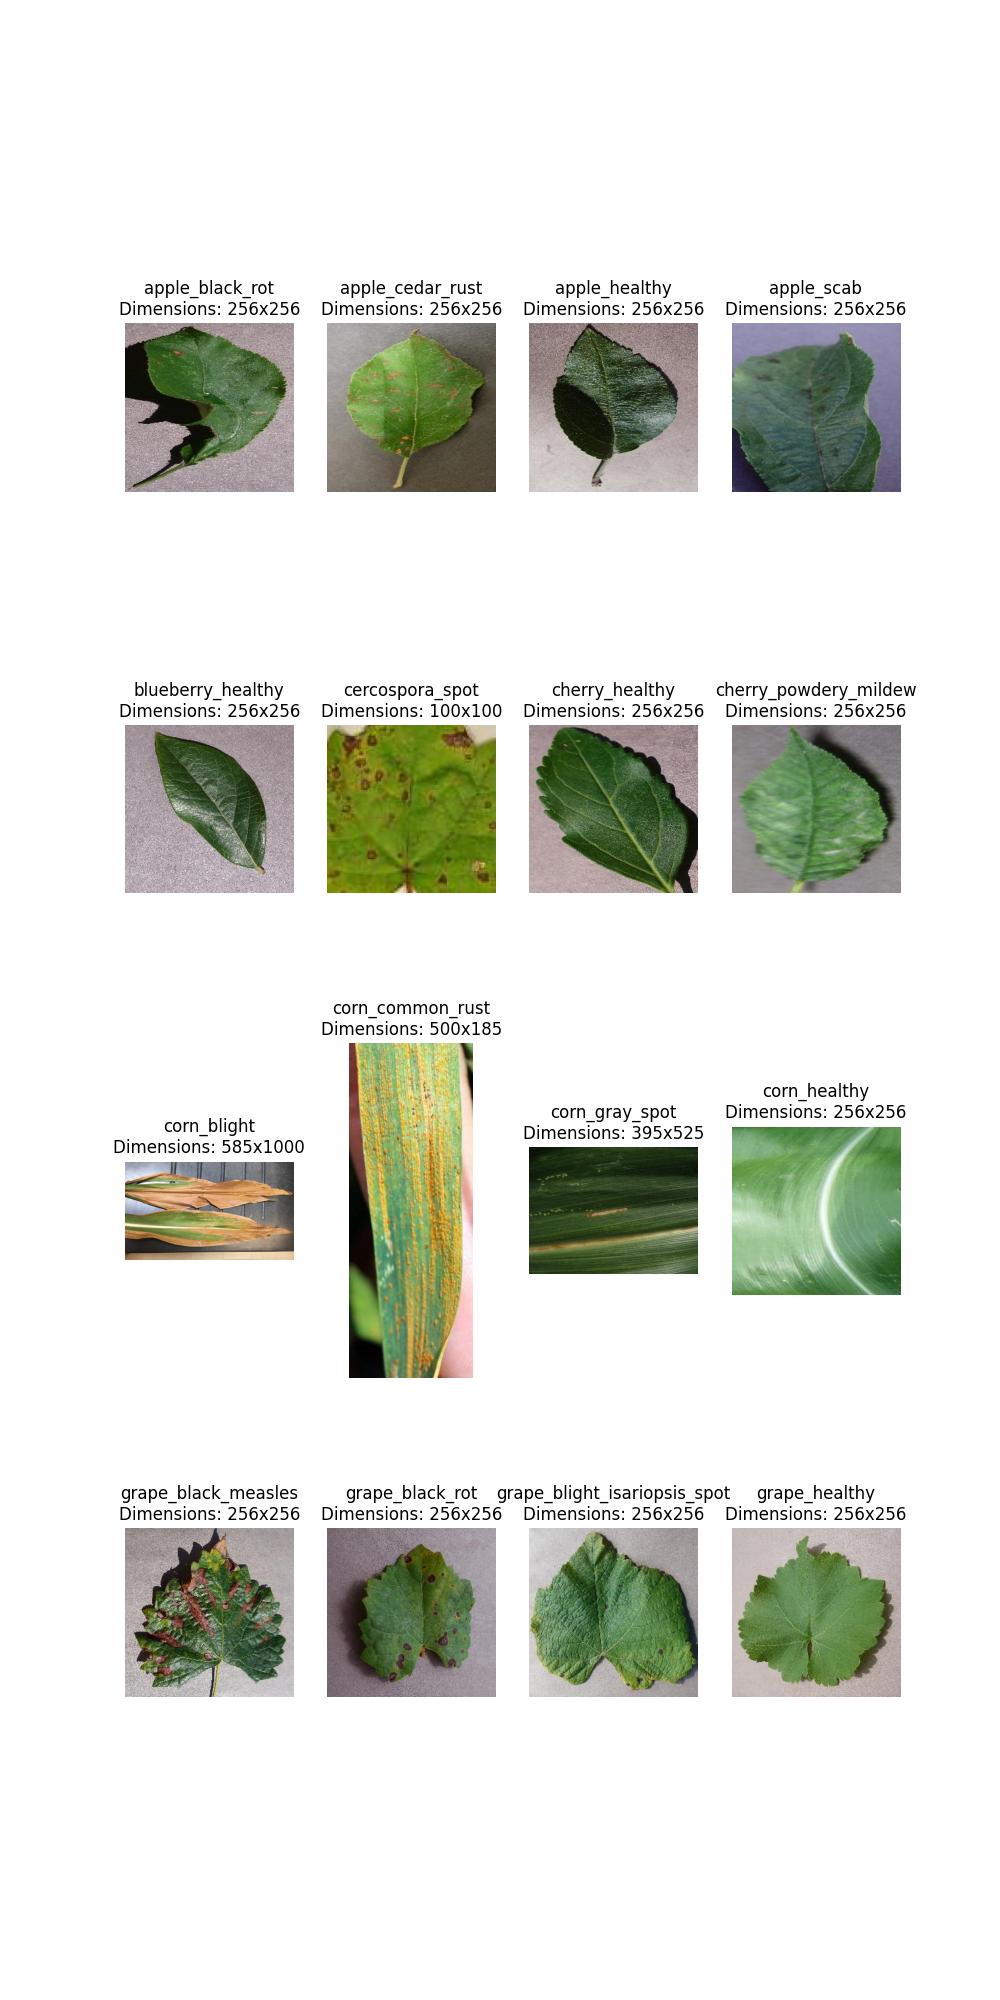
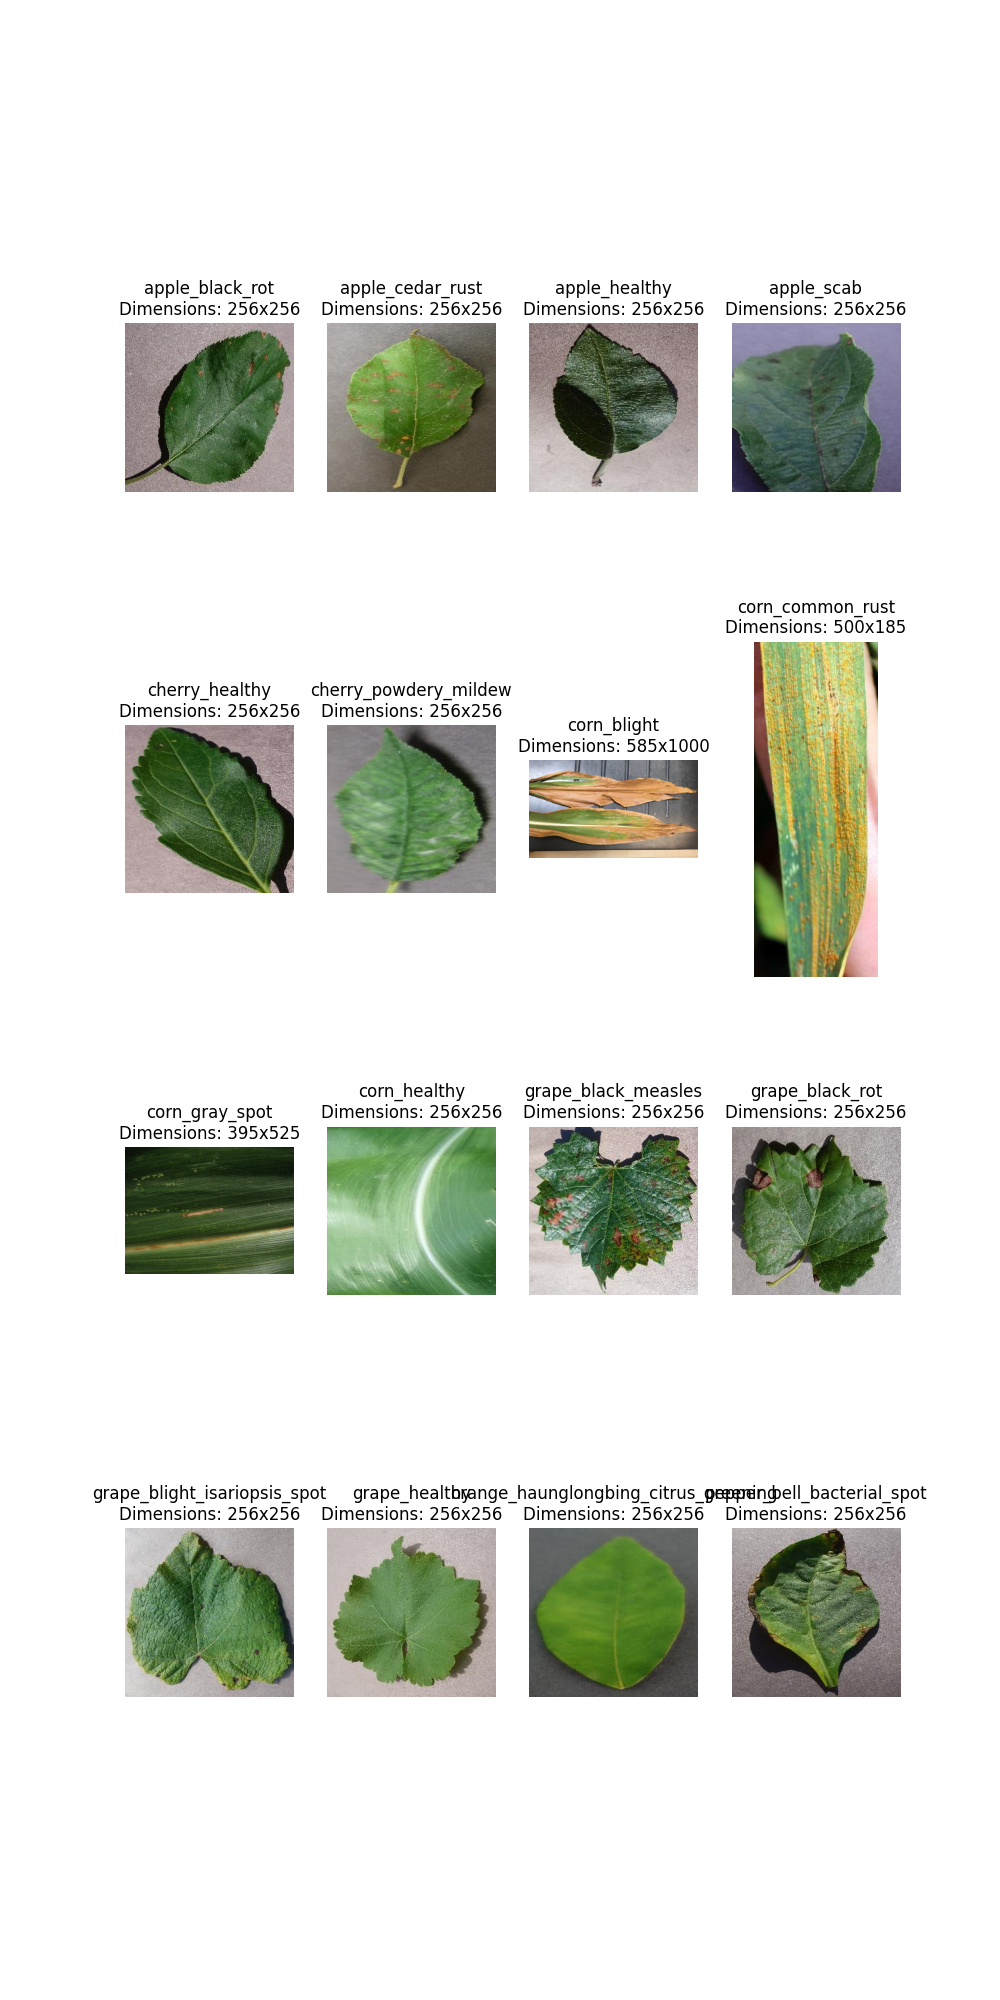
trimmed and cleaned the dataset

diff --git a/util.py b/util.py
@@ -1,9 +1,13 @@
 import os
 import re
-import numpy as np
 
-from typing import Tuple
+import cv2
+import numpy as np
+import random
+
+from typing import Tuple, List
 from PIL import Image
+from img_aug_transform import ImgAugGenerate
 
 
 def rename_subdir(root_dir: str) -> None:
@@ -82,3 +86,43 @@ def get_mean_std_of_pixel_values(root_dir: str) -> Tuple[np.ndarray, np.ndarray]
         raise ValueError("No images found in dataset")
 
     return mean_pixel_values, std_pixel_values
+
+
+def trim_num_images(root_path: str, classes_to_trim: List[str], trim_number: int) -> None:
+    """Randomly removes images from the dataset so no class has over n number of images
+
+    :param root_path: The root directory of the dataset
+    :param classes_to_trim: List of class names to trim
+    :param trim_number: Maximum number of images to retain per class
+    """
+
+    for class_dir_name in classes_to_trim:
+        class_dir = os.path.join(root_path, class_dir_name)
+        files_list = os.listdir(class_dir)
+
+        if len(files_list) > trim_number:
+            num_files_to_remove = len(files_list) - trim_number
+            files_to_remove = random.sample(files_list, num_files_to_remove)
+
+            for file_name in files_to_remove:
+                file_path = os.path.join(class_dir, file_name)
+                os.remove(file_path)
+
+
+def generate_aug_images(root_path: str, class_name: str, num_images: int) -> None:
+    image_dir = os.path.join(root_path, class_name)
+    image_files = os.listdir(image_dir)
+
+    augment = ImgAugGenerate()
+
+    for i in range(num_images):
+        random_image_file = random.choice(image_files)
+        image_path = os.path.join(image_dir, random_image_file)
+
+        image = cv2.imread(image_path)
+        augmented_image = augment(image)
+
+        image_name = f'{class_name}_augmented_{i+1}.jpg'
+        save_file_path = os.path.join(image_dir, image_name)
+        augmented_image = Image.fromarray(augmented_image)
+        augmented_image.save(save_file_path)

diff --git a/img_aug_transform.py b/img_aug_transform.py
@@ -4,6 +4,7 @@ from torchvision.transforms import functional as F
 import cv2
 from PIL import Image
 
+
 class CustomCLAHE(object):
     def __init__(self, clip_limit=2.0, tile_grid_size=(8, 8)):
         self.clip_limit = clip_limit
@@ -27,23 +28,17 @@ class CustomCLAHE(object):
         return Image.fromarray(equalized_bgr_image)
 
 
-class ImgAugTransform:
+class ImgAugGenerate:
     def __init__(self):
         """Initializes an object of ImgAugTransform class with a sequence of image augmentation operations"""
 
         # Boilerplate transformations
         self.aug = iaa.Sequential([
             iaa.Resize({'height': 224, 'width': 'keep-aspect-ratio'}),
-            iaa.Sometimes(0.25, iaa.GaussianBlur(sigma=(0, 3.0))),
+            iaa.Flipud(0.5),
             iaa.Fliplr(0.5),
             iaa.Affine(rotate=(-20, 20), mode='symmetric'),
-            iaa.Sometimes(0.25,
-                          iaa.OneOf([
-                              iaa.Dropout(p=(0, 0.1)),
-                              iaa.CoarseDropout(0.1, size_percent=0.5)
-                          ])),
             iaa.AddToHueAndSaturation(value=(-10, 10), per_channel=True),
-            iaa.Sometimes(0.25, iaa.Grayscale())
         ])
 
     def __call__(self, img):

diff --git a/data_analysis.py b/data_analysis.py
@@ -139,3 +139,5 @@ if __name__ == '__main__':
     print(df_sorted, '\n')
 
     visualize_images_distribution(df)
+
+    print(f"Total number of images: {df['number_of_images'].sum()}")
